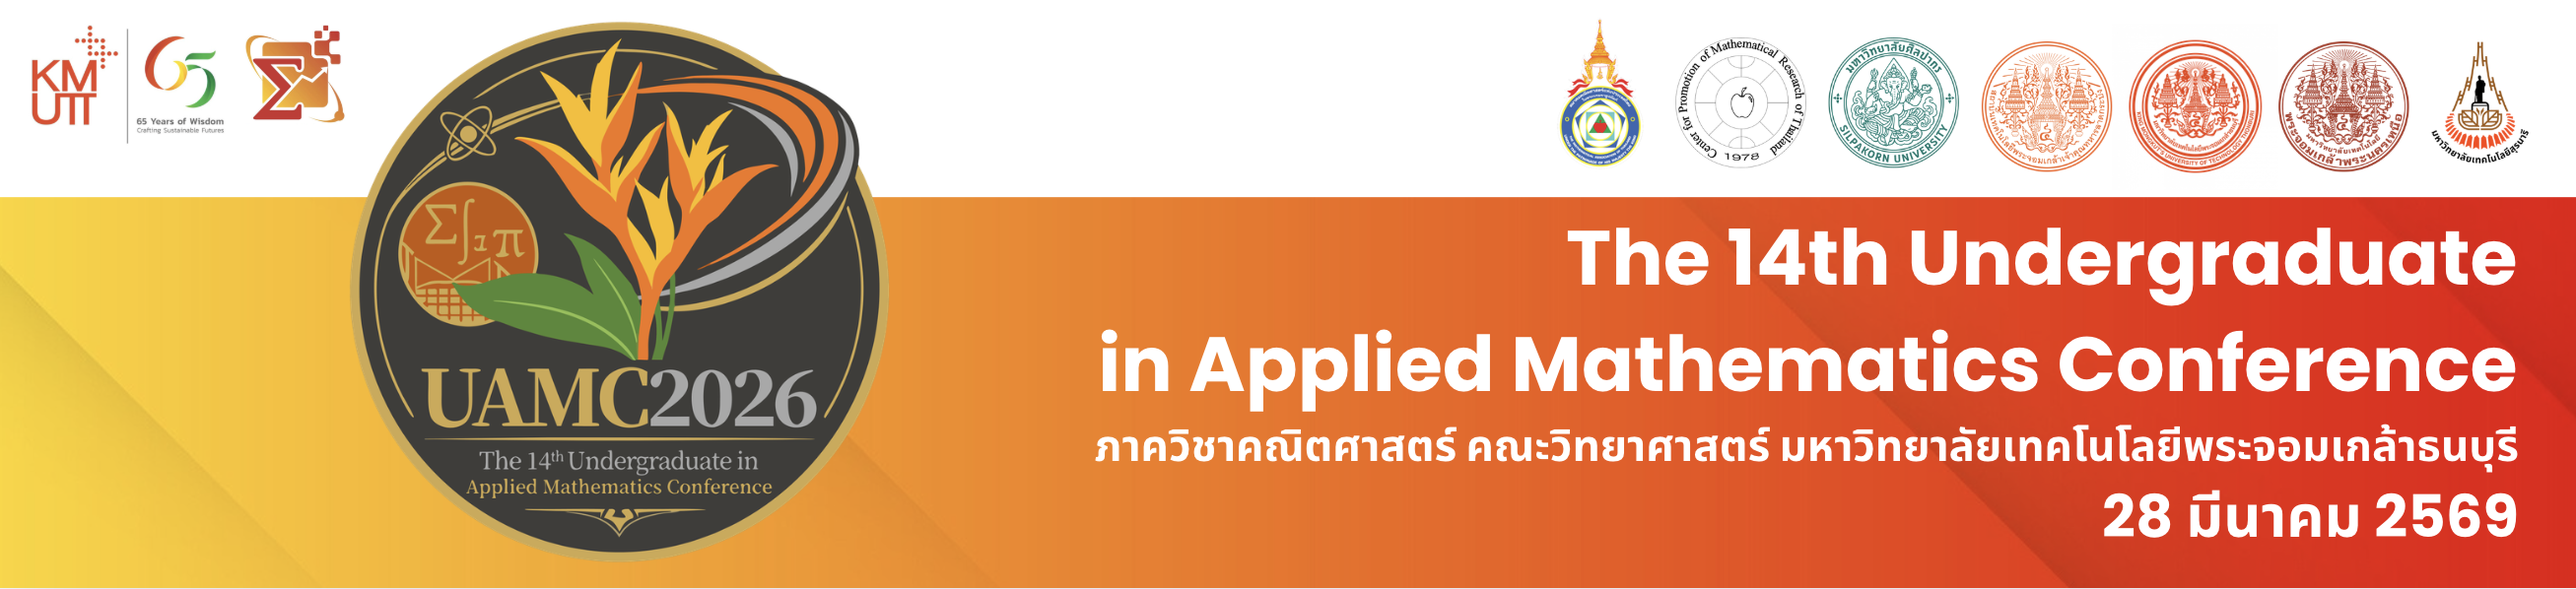
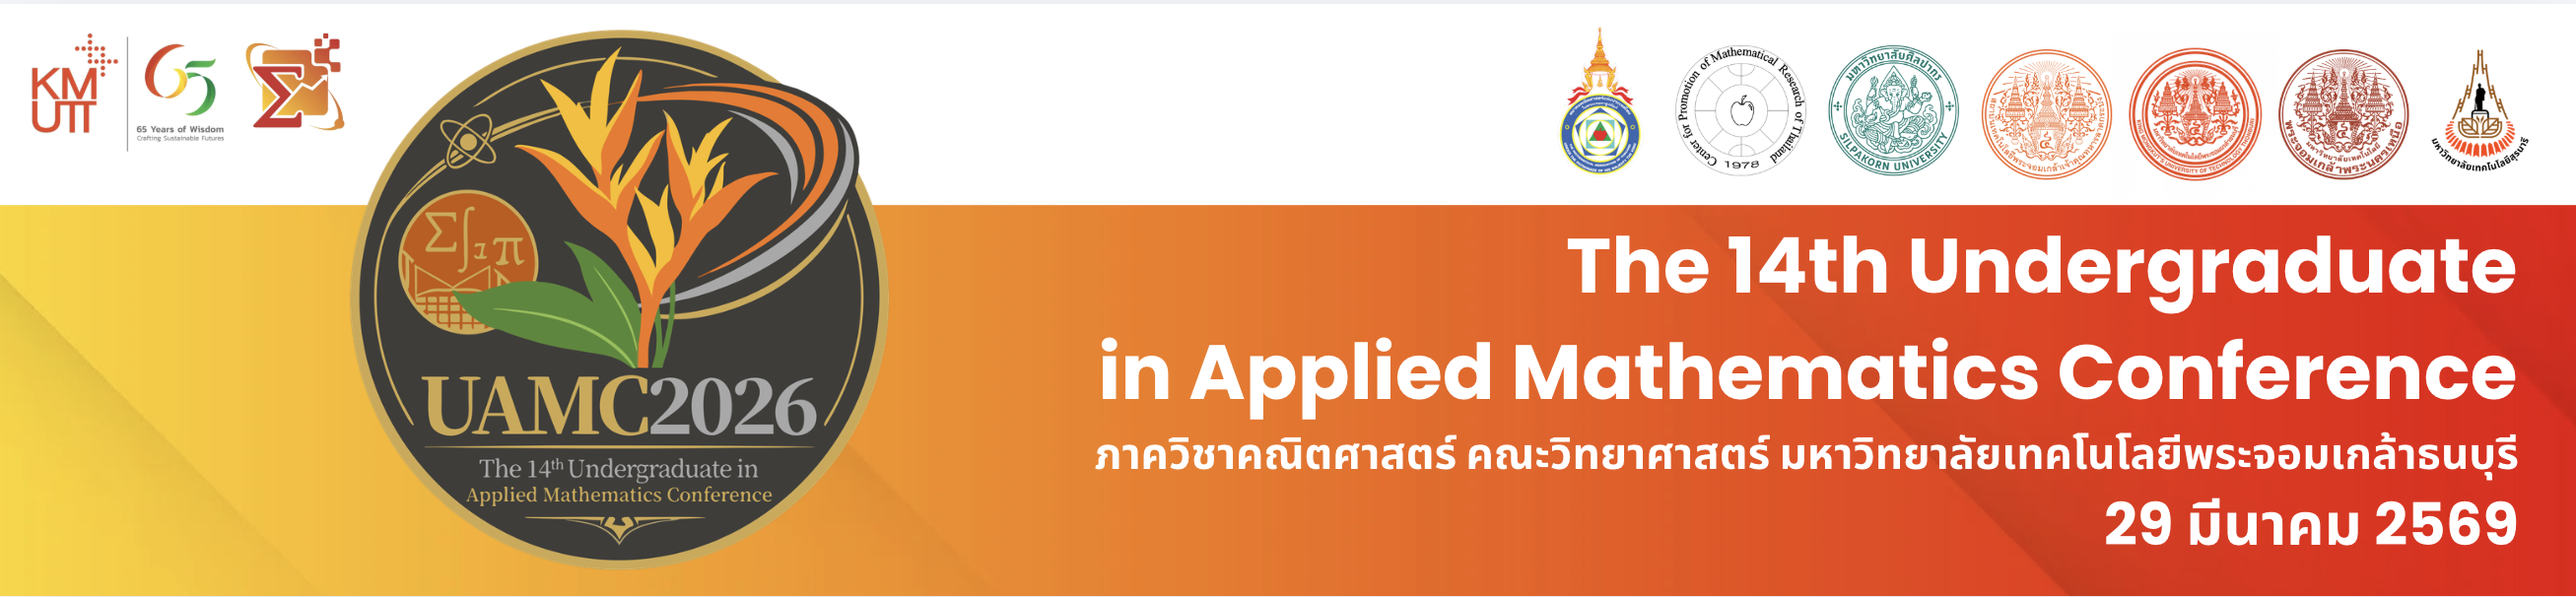
Update public view information

diff --git a/resources/views/public/home.blade.php b/resources/views/public/home.blade.php
@@ -39,7 +39,8 @@
                 คู่มือการใช้งานโปรแกรม Zoom
             </a>
         </div> --}}
-            {{-- <img class="img-fluid" src="img/announce.webp" style="max-height: 50rem;" /> --}}
+
+        <img class="img-fluid" src="{{ asset('img/UAMC2026.png') }}" style="max-height: 50rem;" />
 
         </div>
         <div class="my-5">
@@ -53,7 +54,7 @@
             </h3>
         </div>
         <hr class="separator">
-        <div>
+        <div class="my-4">
             <h3><strong>หลักการและเหตุผลของการจัดประชุม</strong></h3>
             <p>
                 &nbsp;&nbsp;&nbsp;&nbsp;&nbsp;ตามที่ภาควิชาคณิตศาสตร์ คณะวิทยาศาสตร์ มหาวิทยาลัยเทคโนโลยีพระจอมเกล้าธนบุรี
@@ -66,13 +67,11 @@
                 ทางสมาคมคณิตศาสตร์แห่งประเทศไทยพระบรมราชูปถัมภ์ ได้เห็นความสำคัญของการจัดงานการประชุมดังกล่าว
                 จึงได้เป็นส่วนหนึ่งของการจัดการประชุม
                 โดยได้มอบเงินสนับสนุนการจัดงานและมอบโล่รางวัลให้แก่นักศึกษาที่ชนะเลิศการนำเสนอโครงงานแบบบรรยาย
-                เพื่อเป็นการสร้างกำลังใจและกระตุ้นให้นักศึกษาระดับปริญญาตรี สร้างสรรค์โครงงานให้มีคุณภาพมากยิ่งขึ้น
-                นอกจากนี้ทางสมาคมคณิตศาสตร์แห่งประเทศไทยฯ
-                จะคัดเลือกโครงงานที่มีคุณภาพดีเยี่ยมไปแข่งขันต่อในเวทีระดับนานาชาติต่อไป<br />
+                เพื่อเป็นการสร้างกำลังใจและกระตุ้นให้นักศึกษาระดับปริญญาตรี สร้างสรรค์โครงงานให้มีคุณภาพมากยิ่งขึ้น<br />
                 &nbsp;&nbsp;&nbsp;&nbsp;&nbsp;ในปี พ.ศ. 2569 ภาควิชาคณิตศาสตร์ คณะวิทยาศาสตร์
                 มหาวิทยาลัยเทคโนโลยีพระจอมเกล้าธนบุรี
                 ได้รับเกียรติให้เป็นเจ้าภาพหลักในการจัดการประชุมวิชาการระดับปริญญาตรีสาขาวิชาคณิตศาสตร์ประยุกต์ ครั้งที่ 14
-                จึงขอเชิญนักวิจัย คณาจารย์ นิสิต นักศึกษา ส่งผลงานวิจัยเพื่อนำเสนอ และ/หรือ เข้าร่วมประชุม วันที่ 28 มีนาคม
+                จึงขอเชิญนักวิจัย คณาจารย์ นิสิต นักศึกษา ส่งผลงานวิจัยเพื่อนำเสนอ และ/หรือ เข้าร่วมประชุม วันที่ 29 มีนาคม
                 พ.ศ.2569 ณ คณะวิทยาศาสตร์ มหาวิทยาลัยเทคโนโลยีพระจอมเกล้าธนบุรี
             </p>
         </div>
@@ -112,12 +111,13 @@
         </div>
         <hr class="separator" />
         <div class="my-4">
-            <p class="text-center" style="font-size: 2rem;">
-                <strong>ผู้ชนะเลิศการนำเสนอแบบบรรยายได้รับโล่จากสมาคมคณิตศาสตร์แห่งประเทศไทยในพระบรมราชูปถัมภ์<br />
-                    ผู้ชนะเลิศการนำเสนอแบบโปสเตอร์ ได้รับใบประกาศเกียรติคุณ</strong>
+            <p class="text-center fw-bold" style="font-size: 2rem;">
+                ผู้ชนะเลิศการนำเสนอแบบบรรยายในแต่ละห้องจะได้รับโล่จากสมาคมคณิตศาสตร์แห่งประเทศไทยในพระบรมราชูปถัมภ์
+                ผู้ชนะเลิศการนำเสนอแบบโปสเตอร์ในแต่ละสายจะได้รับโล่รางวัลจากภาควิชาคณิตศาสตร์ มจธ.
+                <a href="{{ route('public.criteria') }}" style="font-size: 1.5rem;">(เงื่อนไขสำหรับการได้โล่รางวัล)</a>
             </p>
         </div>
-        <hr class="separator">
+        <hr class="separator mb-5">
         @include('components.schedule', ['showLineBreak' => false])
     </div>
 @endsection

diff --git a/resources/views/components/schedule.blade.php b/resources/views/components/schedule.blade.php
@@ -15,11 +15,7 @@
         </tr>
         <tr>
             <td class="text-center">27 กุมภาพันธ์ 2569</td>
-            <td>ส่งบทคัดย่อของผลงานแบบบรรยายและแบบโปสเตอร์ (รอบแรก)</td>
-        </tr>
-        <tr>
-            <td class="text-center">6 มีนาคม 2569</td>
-            <td>ส่งบทคัดย่อของผลงานแบบบรรยายและแบบโปสเตอร์ (รอบขยายเวลา)</td>
+            <td>วันสุดท้ายของการส่งบทคัดย่อของผลงานแบบบรรยายและแบบโปสเตอร์</td>
         </tr>
         <tr>
             <td class="text-center">13 มีนาคม 2569</td>
@@ -27,10 +23,10 @@
         </tr>
         <tr>
             <td class="text-center">20 มีนาคม 2569</td>
-            <td>ส่งบทคัดย่อแบบขยาย (extended abstract)</td>
+            <td>วันสุดท้ายของการส่งบทคัดย่อแบบขยาย (extended abstract) และลงทะเบียนเข้าร่วมงาน</td>
         </tr>
         <tr>
-            <td class="text-center">28 มีนาคม 2569</td>
+            <td class="text-center">29 มีนาคม 2569</td>
             <td>วันจัดงานประชุม</td>
         </tr>
     </table>

diff --git a/resources/views/public/about.blade.php b/resources/views/public/about.blade.php
@@ -16,12 +16,8 @@
                 <h3 class="fw-bold">ที่ตั้ง</h3>
                 ภาควิชาคณิตศาสตร์, คณะวิทยาศาสตร์, มจธ.<br>
                 126 ถ.ประชาอุทิศ แขวงบางมด เขตทุ่งครุ กรุงเทพมหานคร 10140<br>
-                โทรศัพท์ (+66) 2 470 8820, (+66) 2 470 8822, (+66) 2 470 8839,
-                โทรสาร (+66) 2 428 4025<br>
-                {{-- facebook: <a href="https://www.facebook.com/uamc2021" target="_blank">Uamc2021</a><br><br> --}}
-                {{-- <h3><strong>ผู้ประสานงาน</strong></h3>
-                ดร.ชัชวาลย์ วัชราเรืองวิทย์ (+66) 2-470-8925<br>
-                ดร.ทรงพล ศรีวงค์ษา --}}
+                โทรศัพท์ (+66) 2 470 8822<br>
+                facebook: <a href="https://www.facebook.com/uamc2026" target="_blank">Uamc2026</a><br><br>
             </div>
             <div class="col-12 col-lg-6">
                 <iframe
